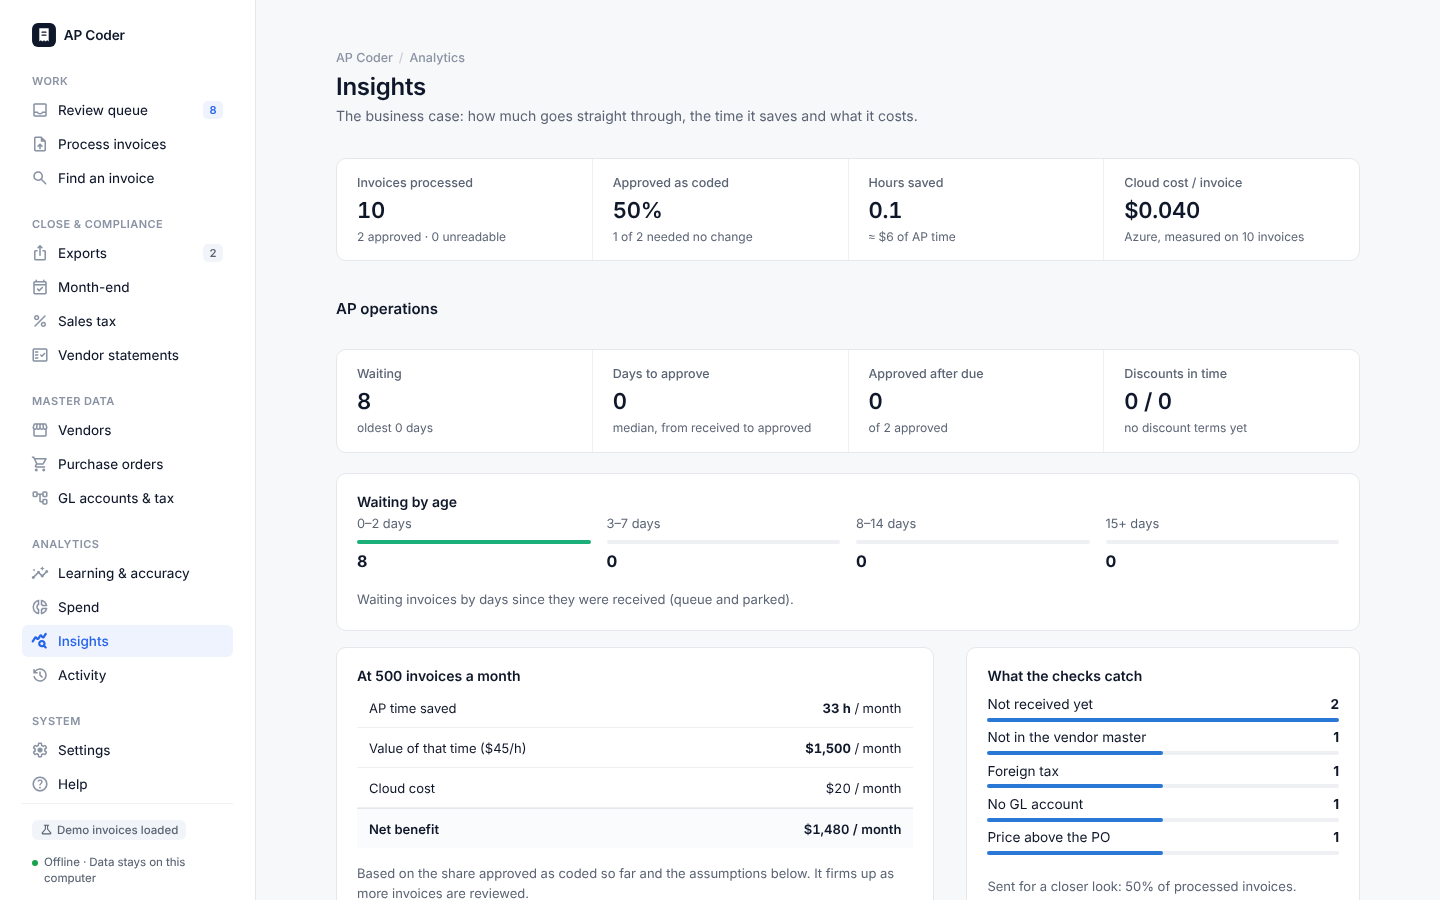
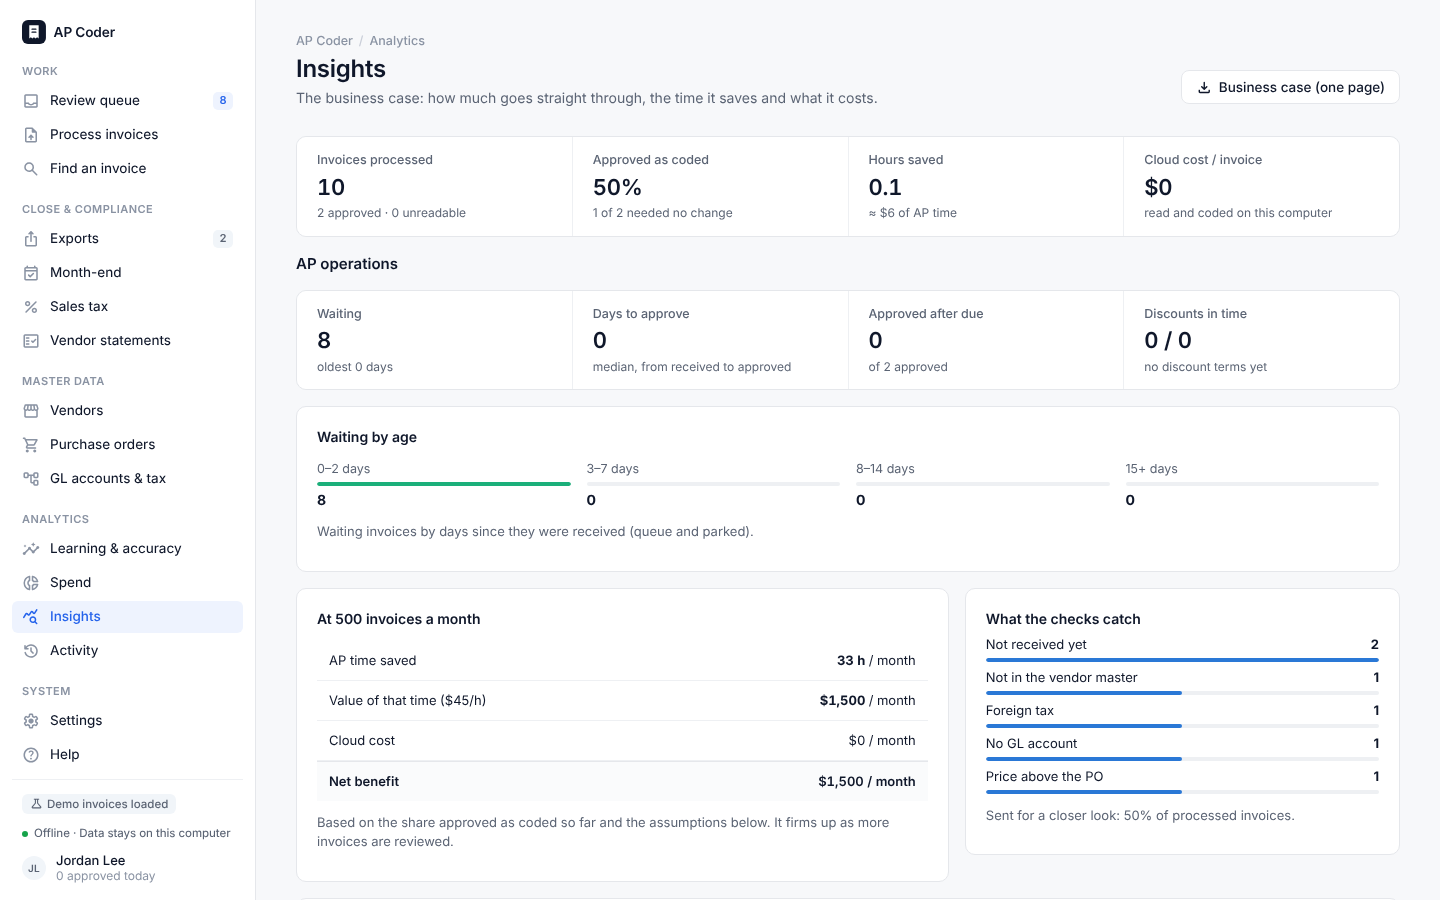
Docs: the dashboard is a local web app; screenshots of the web app
README, the pilot guide, Getting started, the capture design and the JDE notes describe the dashboard as AP
Coder's own web app on 127.0.0.1 (FastAPI, opened in the browser, hosted as CloseDesk is): `serve`, /healthz,
/shutdown, one address per page, the review screen at /review/<id>. What's new says so and retires the public
demo. The seven README screenshots are taken again from the web app with the demo invoices (Chromium, 1440 wide).

Claude-Session: https://claude.ai/code/session_01KmznnM6Uni5SXM6Jaqdi3e

diff --git a/README.md b/README.md
@@ -77,8 +77,7 @@ all:
 | ![Exports: approved invoices in batches for the ERP and JD Edwards E1](docs/screenshots/exports.png) | ![Settings → Reading: how every invoice is read, each reader's state, and OvisOCR2's self-test](docs/screenshots/settings-ai.png) |
 
 **Just want to look around?** Start the dashboard and click *Load demo invoices*. You get ten sample
-invoices from across Canada, with sample POs and a vendor list. A hosted copy is at
-[ap-coder-demo.streamlit.app](https://ap-coder-demo.streamlit.app) ([how it is set up](docs/DEMO.md)).
+invoices from across Canada, with sample POs and a vendor list.
 
 ## What it does
 
@@ -204,7 +203,7 @@ bundle is the one step that downloads). CI's online jobs set it; its offline-bun
 python -m venv .venv && source .venv/bin/activate
 pip install -e ".[ocr,dev]"
 python -m ap_coder doctor --online   # setup check; with LM Studio running, a two-line test call
-python -m ap_coder dashboard         # http://127.0.0.1:8501 (or the next free port)
+python -m ap_coder serve             # the dashboard: http://127.0.0.1:8501 (or the next free port)
 python scripts/pilot_check.py        # reads the ten samples offline and compares them with their answers
 ```
 
@@ -277,9 +276,21 @@ the approved fields) to fine-tune a vision model on them later.
 
 ## Dashboard
 
-| Sidebar group | Page | What it does |
+The dashboard is a local web app, hosted the same way as CloseDesk: a small FastAPI server (run by uvicorn) on
+this computer, at `http://127.0.0.1:8501`, opened in your usual browser. Nothing is installed in the browser and
+nothing is served to the network: it listens on `127.0.0.1` only (set `AP_DASHBOARD_ADDRESS=0.0.0.0` to let
+colleagues on the office network open it), refuses requests addressed to any other name, and only its own pages
+can change anything. The launcher starts it (`python -m ap_coder serve`), opens the browser once it answers, and
+on the next double-click finds it through `GET /healthz` and opens it instead of starting a second copy. An update
+stops the running one cleanly (`POST /shutdown`, with a token only this computer's data folder holds) before the new
+version takes over. Fonts, icons and scripts all come from the app; nothing is loaded from the internet.
+
+The left rail groups the pages; each page has its own address, so a page (or an invoice, `/review/<id>`) can be
+bookmarked or opened in a second tab.
+
+| Rail section | Page | What it does |
 |---|---|---|
-| Work | **Review queue** | Invoice image beside the editable header (incl. PO #, payment terms, due date, bank account to pay into); live **Checks**, each with what to do; the line grid (GL account and cost center dropdowns of your codes); tax lines with a tax-check table; the **PO match**; **GL suggestions** for lines the AI could not code; *Split a line* across GL accounts / cost centers; a GL posting preview; **Ask the vendor** drafts the email for what the invoice is missing (English or French). *Approve & teach*, *Reject*, *Delete*. The queue shows due dates and discount deadlines, can be sorted by due date, and clean invoices can be approved in bulk. A **Second approval** tab holds invoices over the approval limit; *Park* sets aside an invoice waiting for information (**Parked** tab); **Notes** keep the team informed. |
+| Work | **Review queue** | Today's work, the queue (filter, search and sort in the address), bulk approval of clean invoices, and the Second approval, Parked, Approved and Failed / rejected tabs. Each invoice opens its **review screen** (`/review/<id>`): the invoice image beside the editable header (incl. PO #, payment terms, due date, bank account to pay into); live **Checks**, each with what to do; the line grid (GL account and cost center dropdowns of your codes); tax lines with a tax-check table; the **PO match**; **GL suggestions** for lines the AI could not code; *Split a line* across GL accounts / cost centers; a GL posting preview; **Ask the vendor** drafts the email for what the invoice is missing (English or French). *Approve & teach*, *Reject*, *Delete*. The queue shows due dates and discount deadlines, can be sorted by due date, and clean invoices can be approved in bulk. A **Second approval** tab holds invoices over the approval limit; *Park* sets aside an invoice waiting for information (**Parked** tab); **Notes** keep the team informed. |
 | Work | **Process invoices** | Upload files or saved emails (`.eml`, attachments taken out), or process new files dropped into the data folder's `invoices/` (or run `watch`). |
 | Work | **Find an invoice** | For a vendor on the phone: search by vendor, invoice or PO number, or amount; see where each invoice is (in review, parked and why, approved by whom, exported in which batch, rejected) and when it is due; the ERP register too. |
 | Close & compliance | **Exports** | Approved invoices go to the ERP in batches (Excel, CSV, or a **custom CSV layout** matching your ERP's import); each invoice once; any batch can be downloaded again or undone; **approved PDFs** (stamp and coding page) per batch. Import the ERP's invoice register to catch bills already entered there. |
@@ -293,7 +304,7 @@ the approved fields) to fine-tune a vision model on them later.
 | Analytics | **Spend** | Spend by month (by GL category), top GL accounts, vendors and cost centers, net of recoverable tax; **all invoice data as Excel** (invoices, lines, GL posting) for pivot tables or Power BI. |
 | Analytics | **Insights** | Straight-through rate, hours saved, cost per invoice, a monthly projection; AP operations (queue ageing, days to approve, discounts approved in time); a one-page business case to download. |
 | Analytics | **Activity** | The audit trail (who did what, with every change to the AI's coding), filterable, CSV; the **controls report** for internal audit; the **duplicate payment audit** (number typos, same bill under two vendor names, same amount days apart, also against the ERP register). |
-| System | **Settings** | **Reading:** how every invoice is read and each reader's state, OvisOCR2 (found in LM Studio, its self-test, queue, and how often it agrees with digital PDFs' own figures), the models in LM Studio with **Load**. **Automation:** the touchless switch, the largest invoice approved without a person, the bar every vendor must meet, what always goes to a person, touchless rate and errors found. **Review:** your name (per Windows user), review threshold, only-my-GL-codes, approval limit, default payment days, exchange rates. **JD Edwards E1**, **Data & backups** (backups and restore, with an optional second backup folder, e.g. OneDrive), **About**. |
+| System | **Settings** | **Reading:** how every invoice is read and each reader's state, OvisOCR2 (found in LM Studio, its self-test, queue, and how often it agrees with digital PDFs' own figures), the models in LM Studio with **Load**. **Automation:** the touchless switch, the largest invoice approved without a person, the bar every vendor must meet, what always goes to a person, touchless rate and errors found. **Review:** your name (per Windows user), review threshold, only-my-GL-codes, approval limit, default payment days, exchange rates. **JD Edwards E1**, **Data & backups** (backups and restore, with an optional second backup folder, e.g. OneDrive), **About**. The optional Azure Document Intelligence check has a card of its own under Reading (off by default). |
 | System | **Help** | Quick start, every check explained, questions, shortcuts. |
 
 ## Canadian sales tax
@@ -339,7 +350,7 @@ This is a memory of your team's decisions. No model is retrained.
 
 | Command | Purpose |
 |---|---|
-| `dashboard [--port]` | The review app (localhost only). |
+| `serve [--port] [--host] [--no-browser]` | The dashboard: a local web app on `127.0.0.1` (default port 8501, or the next free one), opened in the browser. `dashboard` is the same command. |
 | `demo [--remove]` | Load (or remove) the demo invoices and sample POs; no Azure needed. |
 | `watch [folder] [--every 60] [--once]` | Keep processing new files dropped in the invoices folder (scanner, mail rule, Task Scheduler). |
 | `doctor [--online]` | Setup, reference-data, tax-mapping and connectivity check. No secrets or URLs in the output. |
@@ -488,16 +499,19 @@ ap_coder/
   bench/             random invoices with ground truth: accuracy benchmark, calibration, supplier simulation
   jde.py             JD Edwards E1 F0411Z1/F0911Z1 export
   pipeline.py        extract → code → validate → capture → store
-  dashboard.py       Streamlit app shell;  webapp/: one module per page;  review.py: grid edits → InvoiceCoding
+  web/               the dashboard, a local FastAPI web app: app.py (the app, /healthz, /shutdown), server.py
+                     (`serve`), security.py (this computer only), pages/ (one module per page), templates/,
+                     static/;  review.py: grid edits → InvoiceCoding
   doctor.py · share_report.py · labels.py · evaluation.py · reference_data.py · cli.py
 data/                sample GL accounts, cost centers, tax rates and mapping, coding policy, POs, a statement
 samples/             10 synthetic invoices (ON, QC, BC, AB, MB, NS, SK, US, a credit note) + ground truth
-scripts/             first_run.py, check_deps.py, fetch_models.py (launcher steps), pilot_check.py,
-                     build_offline_bundle.py, sample invoice generator
+scripts/             launch.py (the launcher: set up, start the dashboard, open the running one), running.py (finds
+                     and stops a running AP Coder), upgrade.py (updates over an older install), first_run.py,
+                     check_deps.py, fetch_models.py (launcher steps), pilot_check.py, build_offline_bundle.py,
+                     sample invoice generator
 APProcessor.bat      the one-click launcher (Mac/Linux: APProcessor.command)
 docs/                PILOT.md (offline pilot), GETTING_STARTED.md (step by step on enterprise data), WHATS_NEW.md, PILOT_PLAN.md,
-                     DEMO.md (the public web demo), screenshots/
-streamlit_app.py     the public web demo: the dashboard with made-up invoices (.streamlit/ and static/ go with it)
+                     screenshots/
 private/             git-ignored: default data folder when the installer is not used
 tests/               offline test suite (Azure clients and LM Studio mocked)
 ```

diff --git a/docs/PILOT.md b/docs/PILOT.md
@@ -177,9 +177,12 @@ bundle with the internet cut off, on Windows and on a Mac that has only Python 3
 ## Daily use
 
 1. Double-click **`APProcessor.bat`** (or the *AP Coder* desktop shortcut). A black window opens with
-   the readiness summary, and the dashboard opens in your browser (at `http://127.0.0.1:8501`). Keep
-   the window open while you work; close it to stop AP Coder. Double-clicking again while it runs just
-   brings the running dashboard back up in the browser; it never starts a second copy.
+   the readiness summary, and the dashboard opens in your browser (at `http://127.0.0.1:8501`). The
+   dashboard is a local web app that AP Coder serves itself, on this laptop only (as CloseDesk does):
+   nothing is installed in the browser and nothing goes online. Keep the window open while you work;
+   close it to stop AP Coder. Double-clicking again while it runs just brings the running dashboard back
+   up in the browser; it never starts a second copy. Each page has its own address, so a page or an
+   invoice (`/review/<number>`) can be bookmarked or opened in a second tab.
 2. **Bring in invoices:** drop PDFs, scans or photos in the **invoices folder** (Process invoices →
    *Open folder*), or upload them on the *Process invoices* page.
 3. **Review (the clerk's job):** open each invoice in the *Review queue*, check the fields marked
@@ -300,7 +303,9 @@ itself (and makes its `.venv` again with it).
   installer runs no `git fetch` / `git pull`, and APProcessor.bat never installs Python with `winget`.
 - The dashboard listens only on this laptop (`127.0.0.1`); other computers cannot open it. To share it
   on the office network on purpose, set `AP_DASHBOARD_ADDRESS=0.0.0.0` before starting.
-- Streamlit's usage statistics are switched off; fonts and icons come from the app, not the internet.
+- The dashboard is AP Coder's own small web server (FastAPI): no usage statistics, no outside service;
+  fonts, icons and scripts come from the app, not the internet. It answers only requests addressed to this
+  laptop and changes nothing for a page that is not its own.
 - OCR runs on the laptop with local models; OvisOCR2 and the optional chat model run in LM Studio on the
   laptop too and are reached over `localhost`.
 - A test (`tests/test_offline.py`) reads an invoice, runs every dashboard page and builds a JD Edwards

diff --git a/docs/WHATS_NEW.md b/docs/WHATS_NEW.md
@@ -8,7 +8,27 @@ has a short tour, and the [pilot plan](PILOT_PLAN.md) suggests four weeks to a d
 Your existing data is safe. On first start the database upgrades itself (schema version 15), and a
 backup of the database is made automatically once a day when AP Coder starts (the newest 14 are kept).
 
-## This release: pictures become PDFs, and line items read with a table finder
+## This release: the dashboard is a local web app
+
+**For everyone**
+
+- **The dashboard is AP Coder's own web app now**, hosted the same way as CloseDesk: a small server on this
+  computer (`http://127.0.0.1:8501`) that opens in your usual browser. Every page is there, in the same places:
+  Process, the Review queue and each invoice's review screen, Find an invoice, Exports, Month-end, Sales tax,
+  Vendor statements, Vendors, Purchase orders, GL accounts & tax, Learning & accuracy, Spend, Insights,
+  Activity, Settings (with the optional Azure check card) and Help. Pages open faster, each has its own address
+  (bookmark a page, or open an invoice in a second tab), and nothing is loaded from the internet.
+- **Updates take over by themselves.** Double-clicking a new version stops the running dashboard cleanly (an
+  older AP Coder 0.1 dashboard too), moves your data if it has to, and opens the new one.
+- The Streamlit dashboard and the public web demo built on it are retired: AP Coder no longer installs
+  Streamlit.
+
+**For IT**
+
+- `python -m ap_coder serve` runs the dashboard (`dashboard` is the same command); `GET /healthz` says which AP
+  Coder answers, and the launcher stops it with `POST /shutdown` and a token kept in the data folder.
+
+## Earlier: pictures become PDFs, and line items read with a table finder
 
 **For AP clerks**
 
@@ -112,7 +132,7 @@ backup of the database is made automatically once a day when AP Coder starts (th
 - **Know where you stand:** *Find an invoice*, the *Today* line, spend analysis, the duplicate
   payment audit, the controls report and the business case.
 - **A public demo on the web:** the dashboard with made-up invoices, nothing to install, for anyone
-  with the link (see [DEMO.md](DEMO.md)).
+  with the link (retired with the Streamlit dashboard: load the demo invoices on your own dashboard instead).
 
 ## Safety
 

diff --git a/docs/GETTING_STARTED.md b/docs/GETTING_STARTED.md
@@ -4,8 +4,8 @@
 on the laptop (the PDF's text or local OCR, and OvisOCR2 in LM Studio). Invoices, GL accounts, reviews
 and the AI's memory stay in your **data folder**
 (default `C:\Users\<you>\APCoder`, chosen during install), outside the code, so none of it can
-be pushed to GitHub. The dashboard runs at
-`http://localhost` and is not reachable from other machines. You only send back two text
+be pushed to GitHub. The dashboard is a local web app on
+your computer (`http://127.0.0.1:8501`, opened in your browser) and is not reachable from other machines. You only send back two text
 reports, and you can read both before sending:
 
 | You paste back | Produced by | Contains | Never contains |
@@ -116,8 +116,9 @@ self-test (*page reader*), and, with the chat model loaded, one short test call 
 
 ## Step 4: Try the dashboard with the sample data (no enterprise data)
 
-Start AP Coder from the **AP Coder** desktop shortcut (or `APProcessor.bat`). It opens in your browser;
-keep the black window open while you use it and close it to stop. If another program already uses
+Start AP Coder from the **AP Coder** desktop shortcut (or `APProcessor.bat`). The dashboard opens in your
+browser (it is served by AP Coder itself, on this computer only); keep the black window open while you use it
+and close it to stop. If another program already uses
 port 8501, AP Coder picks the next free one.
 
 **Fastest: the demo.** On the welcome screen click **Load demo invoices**. Ten

diff --git a/docs/CAPTURE_DESIGN.md b/docs/CAPTURE_DESIGN.md
@@ -523,6 +523,14 @@ The invoice page with a box over every field, coloured by status (green verified
 check, red failed check). Click a field in the panel to jump to it on the page. To teach, click a
 field and then the words on the page that hold it. Each confirmation trains the supplier's template.
 
+It is a page of the local web dashboard, `/review/<id>` (`ap_coder/web/pages/invoice.py`): each page of the
+invoice is served as a picture (`/review/<id>/page/<n>.png`, drawn once and cached, `ap_coder/web/document.py`)
+with its printed size, and `static/js/invoice_viewer.js` draws the boxes over it from the fields' fractions of the
+page. The words to teach from come from `/review/<id>/words`. Every edit is checked as it is made
+(`POST /review/<id>/check`: the checks, the posting preview and the approve bar are drawn again) and kept as a
+draft until the invoice is approved; while OvisOCR2 has the invoice in its queue the screen follows its progress
+(`/review/<id>/reader`) and shows its reading when it arrives, keeping the reviewer's edits.
+
 ## JDE EnterpriseOne
 
 Approved invoices export as F0411Z1 (voucher) and F0911Z1 (G/L distribution) batch rows for the

diff --git a/docs/JDE_E1.md b/docs/JDE_E1.md
@@ -9,7 +9,7 @@ E1's Voucher Batch Processor (**R04110ZA**, or the older R04110Z) reads from its
 | `F0911Z1.csv` | F0911Z1 (Journal Entry Transactions - Batch File) | G/L distribution line |
 | `F0411Z1T.csv` | *(not a standard table: see "PO-matched vouchers")* | PO match line |
 
-The code is in `ap_coder/jde.py` (pure logic), the settings in `ap_coder/webapp/jde_settings.py`
+The code is in `ap_coder/jde.py` (pure logic), the settings in `ap_coder/web/pages/settings_jde.py`
 (Settings → **JD Edwards E1**) and the export on the Exports page (ERP format **JD Edwards E1**).
 
 ## Using it
